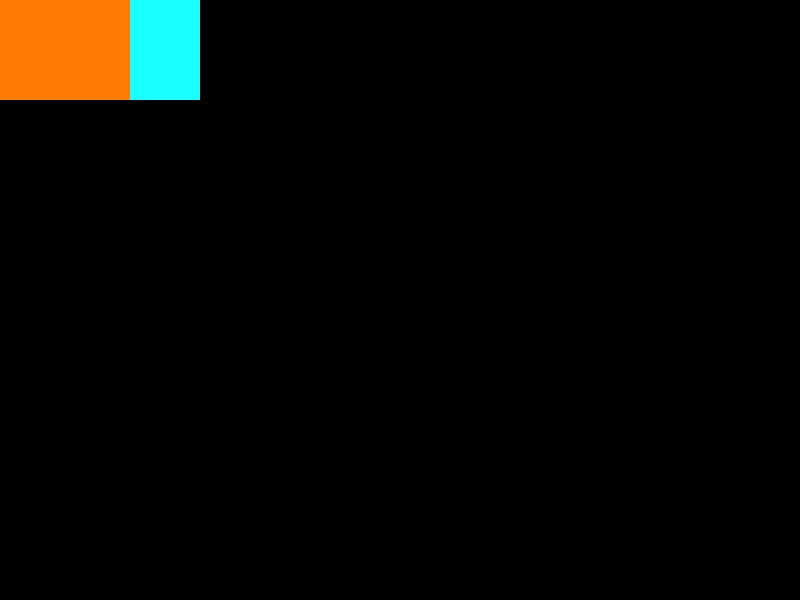
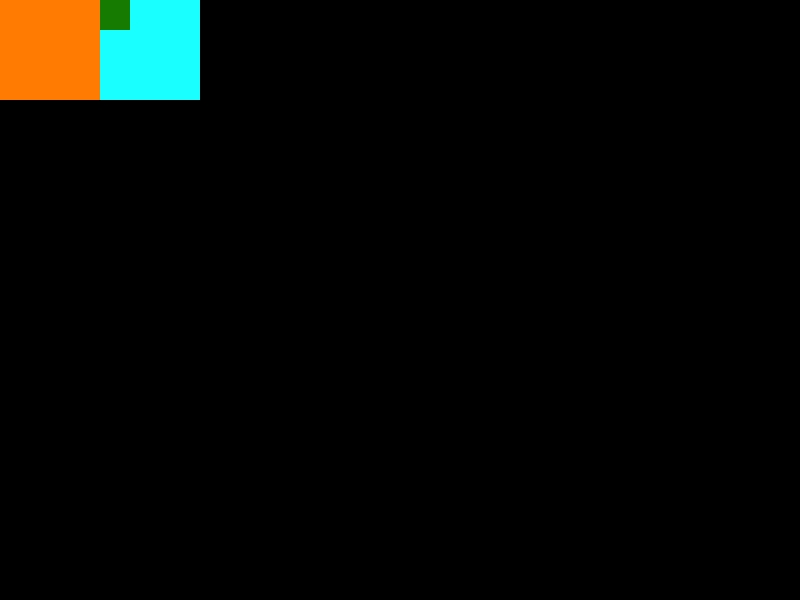
fix bug pf parsing color

Changed region(s): [[0.125, 0.0, 0.1875, 0.18]]

diff --git a/week07/toy-browser/server.js b/week07/toy-browser/server.js
@@ -11,15 +11,16 @@ const server = http.createServer((req, res) => {
         #father-flex {
             display: flex;
             width:200px;
-            background-color: rgb(25, 255, 255);
+            background-color: rgb(25,255, 255 );
         }
         #flex0{
             width:100px;
-            background-color: rgb(255, 123, 1);
+            height: 100px;
+            background-color: rgb(255,123,1);
         }
         .flex1{
             width:30px;
-            height: 100px;
+            height: 30px;
             background-color: rgb(21,123,1);
         }
     </style>

diff --git a/week07/toy-browser/render.js b/week07/toy-browser/render.js
@@ -6,7 +6,7 @@ function render(viewport, element) {
 
         if (element.style['background-color']) {
             let color = element.style['background-color'] || 'rgb(0,0,0)'
-            color.match(/rgb\((\d+), (\d+), (\d+)\)/)
+            color.match(/rgb\(\s?(\d+),\s?(\d+)\s?,\s?(\d+)\s?\)/)
             img.fill(Number(RegExp.$1), Number(RegExp.$2), Number(RegExp.$3), 1)
             viewport.draw(img, element.style.left || 0, element.style.top || 0)
         }

diff --git a/week07/toy-browser/demo.html b/week07/toy-browser/demo.html
@@ -8,12 +8,13 @@
         }
         #flex0{
             width:100px;
+            height: 100px;
             background-color: rgb(255, 123, 1);
         }
         .flex1{
             width:30px;
-            height: 100px;
-            background-color: rgb(21,123,1);
+            height: 30px;
+            background-color: rgb(21, 123, 1);
         }
     </style>
 </head>
